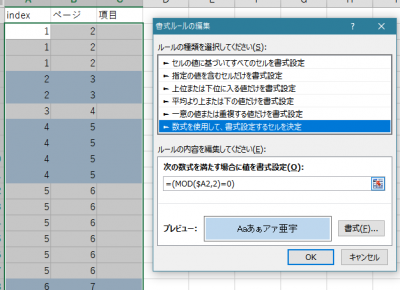
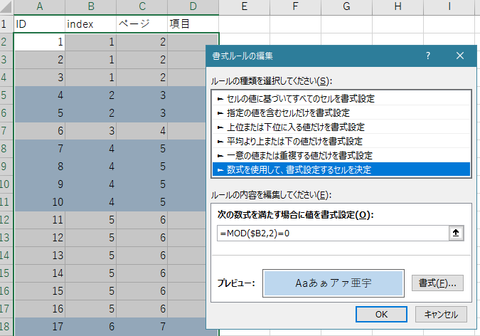
fix image

diff --git a/index.html b/index.html
@@ -59,7 +59,7 @@
     <ul>
         <li>索引拾いのための Excel テンプレートを作成します。</li>
         <li>各ページの項目数を上図 SAMPLE1 のように Excel に整理して下記ボックスに貼り付けてください。</li>
-        <li>“index”列に条件付き書式で「偶数の場合に背景色変更」という設定をすると（SAMPLE2）、ページの変わり目が見やすくなり便利です。</li>
+        <li>“index” 列に条件付き書式で「偶数の場合に背景色変更」という設定をするとページの変わり目が見やすくなり便利です（SAMPLE2）。</li>
     </ul>
 </div>
 
